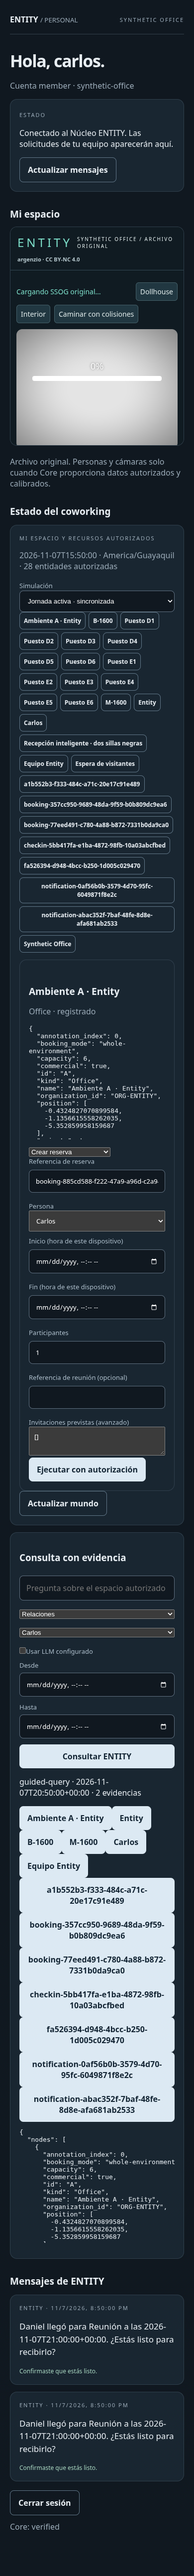
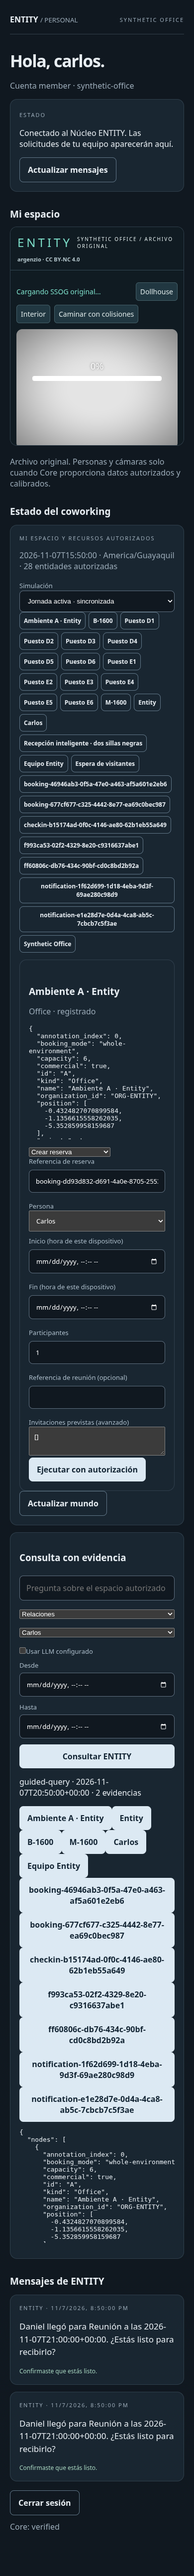
Reconstruct temporal event filters and verify shared Office delivery across scoped clients

Changed region(s): [[0.1538, 0.7158, 0.8308, 0.8403], [0.1231, 0.3112, 0.8923, 0.3735]]

diff --git a/apps/web/src/office/operations.js b/apps/web/src/office/operations.js
@@ -10,7 +10,7 @@ host.id='office-operations';
 host.innerHTML='<h2>Operaciones del coworking · ENTITY Core</h2><form id="office-login"><label>Servidor<input name="api" type="url" value="http://127.0.0.1:8010"></label><label>Usuario<input name="username" autocomplete="username"></label><label>Contraseña<input name="password" type="password" autocomplete="current-password"></label><button>Conectar</button></form><p id="office-core-status" role="status">Sin conexión al Core: no se inventarán reservas, permisos ni resultados.</p><div id="office-workspace" hidden><nav id="office-modes"></nav><label>Ejecución<select id="office-run"></select></label><button id="office-refresh">Actualizar</button><button id="office-disconnect">Cerrar sesión</button><label>Reconstrucción histórica<input id="office-time" type="datetime-local"></label><button id="office-reconstruct">Consultar ese instante</button><button id="office-present">Presente</button><p id="office-world-status"></p><div class="office-columns"><div id="office-entities"></div><div><h3 id="office-selection">Entidad</h3><div id="office-facts"></div><div id="office-actions"></div></div></div><section id="office-query"></section></div>';
 document.querySelector('main').append(host);
 host.querySelector('[name=api]').value=configuredApi();
-let selectedEventDetails=null;
+let selectedEventDetails=null,memoryKey='',memoryFilters={},memoryEpoch=0;
 let currentActor=null,sessionEpoch=0;
 let token,site,run,world,capabilities=[],selected='site',mode='Operaciones',at=null,branch='main',streamController=null,receptionPanel=null;
 const status=message=>{host.querySelector('#office-core-status').textContent=message;};
@@ -123,16 +123,25 @@ async function renderTimeline(){
  let element=host.querySelector('#office-timeline');
  if(!element){element=document.createElement('section');element.id='office-timeline';host.querySelector('#office-workspace').append(element);}
  element.hidden=mode!=='Memoria';if(element.hidden)return;
+ const key=JSON.stringify([site,run,branch]);if(memoryKey!==key){memoryKey=key;memoryFilters={};selectedEventDetails=null;}
+ const epoch=++memoryEpoch,context=JSON.stringify([site,run,branch,at]);
+ const options=kind=>'<option value="">Todos</option>'+Object.values(world.entities).filter(x=>!kind||['Zone','WaitingArea','Office','EventSpace'].includes(x.kind)).map(x=>'<option value="'+esc(x.id)+'">'+esc(x.name||x.id)+'</option>').join('');
+ if(element.dataset.context!==key){
+  element.dataset.context=key;element.innerHTML='<h3>Memoria persistente</h3><form id="office-memory-filters"><label>Entidad<select name="entity_id">'+options()+'</select></label><label>Zona<select name="zone_id">'+options(true)+'</select></label><label>Tipo de evento<input name="event_type" placeholder="observation.received"></label><label>Desde (hora de sede)<input name="start" type="datetime-local"></label><label>Hasta (hora de sede)<input name="end" type="datetime-local"></label><button>Filtrar historial</button><button type="button" id="office-memory-reset">Quitar filtros</button></form><p id="office-memory-summary"></p><label>Recorrer eventos<input id="office-scrub" type="range" min="0" value="0"></label><p>Estado y relaciones reconstruidos por Core. El fondo es el escaneo original; no existe vídeo histórico grabado.</p><div id="office-event-list"></div><details><summary>Evidencia del evento seleccionado</summary><pre id="office-event-detail"></pre></details><button id="office-memory-next">Siguientes1000 eventos</button>';
+  const form=element.querySelector('form');
+  form.onsubmit=event=>{event.preventDefault();try{memoryFilters=Object.fromEntries([...new FormData(form)].filter(([,v])=>v));for(const field of ['start','end'])if(memoryFilters[field])memoryFilters[field]=siteDateTimeToUtc(memoryFilters[field],world.timezone);renderTimeline();}catch(error){status(error.message);}};
+  element.querySelector('#office-memory-reset').onclick=()=>{form.reset();memoryFilters={};renderTimeline();};
+ }
  try{
-  const context=JSON.stringify([site,run,branch,at]);const records=await request(prefix()+'/events?limit=1000&branch='+encodeURIComponent(branch));if(mode!=='Memoria'||context!==JSON.stringify([site,run,branch,at]))return;
-  element.innerHTML='<h3>Memoria persistente · eventos inmutables</h3><label>Recorrer eventos<input id="office-scrub" type="range" min="0" max="'+Math.max(0,records.length-1)+'" value="'+Math.max(0,records.length-1)+'"></label><p>Reconstrucción del Core. No se ofrece vídeo grabado; la imagen de fondo es el escaneo original.</p><div id="office-event-list"></div><div id="office-event-detail"></div>';
-  if(selectedEventDetails)element.querySelector('#office-event-detail').textContent=JSON.stringify(selectedEventDetails,null,2);
-  const list=element.querySelector('#office-event-list');
-  for(const event of records){
-   const button=document.createElement('button');button.textContent=event.at+' · '+event.type;button.dataset.event=event.id;
-   button.onclick=async()=>{try{const detail=await request(prefix()+'/events/'+event.id);selectedEventDetails=detail;at=event.at;await refresh();}catch(e){status(e.message);}};
-   list.append(button);
-  }
-  element.querySelector('#office-scrub').onchange=async event=>{const entry=records[Number(event.target.value)];if(entry){at=entry.at;await refresh();}};
- }catch(error){status(error.message);}
+  const params=new URLSearchParams({limit:'1000',branch,...memoryFilters});const records=await request(prefix()+'/events?'+params);
+  if(epoch!==memoryEpoch||mode!=='Memoria'||context!==JSON.stringify([site,run,branch,at]))return;
+  const summary=element.querySelector('#office-memory-summary');summary.textContent=records.length+' eventos recuperados · '+world.timezone+' · filtros por relaciones históricas, sin trasladar al pasado la ubicación actual.';
+  const next=element.querySelector('#office-memory-next');next.hidden=records.length<1000;next.onclick=()=>{memoryFilters.after=String(records.at(-1).seq);renderTimeline();};
+  element.querySelector('#office-event-detail').textContent=selectedEventDetails?JSON.stringify(selectedEventDetails,null,2):'Selecciona un evento para consultar su procedencia.';
+  const select=async entry=>{try{const detail=await request(prefix()+'/events/'+entry.id);if(key!==JSON.stringify([site,run,branch]))return;selectedEventDetails=detail;at=entry.at;await refresh();}catch(e){status(e.message);}};
+  const list=element.querySelector('#office-event-list');list.replaceChildren();
+  for(const event of records){const button=document.createElement('button');button.textContent=siteWallTime(event.at,world.timezone)+' · '+event.type;button.dataset.event=event.id;button.onclick=()=>select(event);list.append(button);}
+  const scrub=element.querySelector('#office-scrub');scrub.max=String(Math.max(0,records.length-1));scrub.disabled=!records.length;scrub.value=String(Math.max(0,records.findLastIndex(event=>event.at<=world.clock)));
+  scrub.onchange=event=>{const entry=records[Number(event.target.value)];if(entry)select(entry);};
+ }catch(error){if(epoch===memoryEpoch)status(error.message);}
 }

diff --git a/apps/web/src/office/site-time.js b/apps/web/src/office/site-time.js
@@ -4,7 +4,7 @@ export function siteWallTime(iso,timezone){const p=parts(iso,timezone);return p.
 export function siteDateTimeToUtc(value,timezone){
  const match=/^(\d{4})-(\d{2})-(\d{2})T(\d{2}):(\d{2})(?::(\d{2})(?:\.(\d{1,3}))?)?$/.exec(value);if(!match)throw Error('Fecha y hora local inválidas.');
  const [year,month,day,hour,minute,second]=match.slice(1,7).map(v=>Number(v||0)),millisecond=Number((match[7]||'').padEnd(3,'0')||0);
- const target=Date.UTC(year,month-1,day,hour,minute,second,millisecond);let candidate=target;
+ const target=Date.UTC(year,month-1,day,hour,minute,second,millisecond),date=new Date(target);if(date.getUTCFullYear()!==year||date.getUTCMonth()!==month-1||date.getUTCDate()!==day||date.getUTCHours()!==hour||date.getUTCMinutes()!==minute||date.getUTCSeconds()!==second)throw Error('Fecha y hora local inválidas.');let candidate=target;
  const wall=stamp=>{const p=parts(stamp,timezone);return Date.UTC(+p.year,+p.month-1,+p.day,+p.hour,+p.minute,+p.second,new Date(stamp).getUTCMilliseconds());};
  for(let i=0;i<4;i++)candidate-=wall(candidate)-target;
  if(wall(candidate)!==target)throw Error('Esta hora local no existe en la zona horaria de la sede.');

diff --git a/apps/web/src/office/office.css b/apps/web/src/office/office.css
@@ -6,3 +6,4 @@
 
 #office-event-list{display:grid;gap:6px;max-height:240px;overflow:auto}#office-event-detail{white-space:pre-wrap;overflow-wrap:anywhere;max-height:280px;overflow:auto;color:#a4ceca}
 .capability-fields{display:grid;grid-template-columns:repeat(auto-fit,minmax(180px,1fr));gap:10px}.capability-fields label{display:grid;gap:6px}
+#office-memory-filters{display:flex;gap:10px;flex-wrap:wrap;align-items:end}#office-memory-filters label{display:grid;gap:5px;max-width:100%}#office-memory-filters input,#office-memory-filters select{max-width:100%;padding:8px;background:#152630;color:#dce7e7;border:1px solid #45616a}#office-event-list{display:grid;gap:6px;max-height:420px;overflow:auto}#office-event-list button{text-align:left;font-size:12px}#office-scrub{width:100%}

diff --git a/apps/web/tests/site-time.test.js b/apps/web/tests/site-time.test.js
@@ -5,3 +5,5 @@ test('Ecuador date does not roll forward with UTC midnight',()=>{assert.equal(si
 test('a second site uses its declared timezone',()=>{assert.equal(siteDateTimeToUtc('2026-11-07T08:00','Europe/Madrid'),'2026-11-07T07:00:00.000Z');});
 test('a nonexistent spring civil time is not silently moved',()=>{assert.throws(()=>siteDateTimeToUtc('2026-03-29T02:30','Europe/Madrid'),/no existe/);});
 test('an ambiguous fall civil time requires an unambiguous instant',()=>{assert.throws(()=>siteDateTimeToUtc('2026-10-25T02:30','Europe/Madrid'),/ambigua/);});
+
+test('an invalid calendar date is rejected rather than normalized',()=>{assert.throws(()=>siteDateTimeToUtc('2026-02-30T08:00','America/Guayaquil'),/inválidas/);});

diff --git a/services/entity-api/app/office/api.py b/services/entity-api/app/office/api.py
@@ -151,14 +151,16 @@ def bind(site:str,body:Binding,actor=Depends(principal)):
     return body
 
 @router.get('/sites/{site}/runs/{run}/events')
-def events(site:str,run:str,after:int=0,limit:int=QueryParam(default=100,ge=1,le=1000),branch:str='main',actor=Depends(principal)):
+def events(site:str,run:str,after:int=QueryParam(default=0,ge=0),limit:int=QueryParam(default=100,ge=1,le=1000),branch:str='main',entity_id:str|None=None,zone_id:str|None=None,event_type:str|None=None,start:str|None=None,end:str|None=None,actor=Depends(principal)):
     from app.main import database
+    from .memory import events as list_events
     scoped(site,actor,'read')
     with database() as db:
-        allowed=projection(world(db,site,run,branch),actor)['entities']
-        rows=[{**dict(r),'entities':json.loads(r['entities']),'payload':json.loads(r['payload']),'evidence':json.loads(r['evidence'])} for r in db.execute('SELECT * FROM office_events WHERE site=? AND run=? AND branch=? AND seq>? ORDER BY seq LIMIT ?',(site,run,branch,after,limit))]
-        if unrestricted(actor):return rows
-        return [{**{k:r[k] for k in ['seq','id','at','type']},'entities':[k for k in r['entities'] if k in allowed]} for r in rows if set(r['entities'])&set(allowed)]
+        state=world(db,site,run,branch)
+        for key in [entity_id,zone_id]:
+            if key:require_visible(state,actor,key)
+        allowed=projection(state,actor)['entities']
+        return list_events(db,site,run,branch,after,limit,None if unrestricted(actor) else allowed,entity_id,zone_id,event_type,start,end)
 
 @router.get('/sites/{site}/runs/{run}/stream')
 async def stream(site:str,run:str,request:Request,after:int=0,actor=Depends(principal)):
@@ -179,7 +181,7 @@ async def stream(site:str,run:str,request:Request,after:int=0,actor=Depends(prin
             for row in rows:
                 cursor=row['seq']
                 row=dict(row);row['entities']=[k for k in json.loads(row['entities']) if k in allowed]
-                if not unrestricted(current_actor) and not row['entities'] and row['type']!='clock.advance':continue
+                if not unrestricted(current_actor) and not row['entities'] and row['type'] not in {'clock.advance','site.active_run_changed'}:continue
                 yield f'id: {cursor}\nevent: world-change\ndata: {encode(dict(row))}\n\n'
             if not rows:yield ': heartbeat\n\n'
             await asyncio.sleep(.5)

diff --git a/services/entity-api/tests/test_office_memory.py b/services/entity-api/tests/test_office_memory.py
@@ -1,0 +1,31 @@
+"""Temporal memory filters must use past relationships, not a person's current zone."""
+import unittest
+from app import main
+import test_office as base
+
+class MemoryTests(unittest.TestCase):
+    setUp=base.OfficeTests.setUp
+    tearDown=base.OfficeTests.tearDown
+    auth=base.OfficeTests.auth
+    cmd=base.OfficeTests.cmd
+    advance=base.OfficeTests.advance
+    def test_event_zone_filter_preserves_past_location_and_pagination(self):
+        self.cmd('entity.upsert',inputs={'id':'luis','kind':'Person','attributes':{'zone_id':'zone'}})
+        self.advance('2026-11-07T16:00:00-05:00')
+        self.cmd('entity.upsert',inputs={'id':'luis','kind':'Person','attributes':{'zone_id':'other-zone'}})
+        endpoint=self.root+'/events';params={'entity_id':'luis','event_type':'entity.upsert','zone_id':'zone'}
+        old=self.client.get(endpoint,headers=self.headers,params=params);self.assertEqual(old.status_code,200,old.text)
+        self.assertEqual(len(old.json()),1)
+        self.assertEqual(old.json()[0]['payload']['changes']['luis']['zone_id'],'zone')
+        new=self.client.get(endpoint,headers=self.headers,params={**params,'zone_id':'other-zone'}).json()
+        self.assertEqual(len(new),1);self.assertGreater(new[0]['seq'],old.json()[0]['seq'])
+        later=self.client.get(endpoint,headers=self.headers,params={'after':old.json()[0]['seq'],'entity_id':'luis','event_type':'entity.upsert','limit':1}).json()
+        self.assertEqual(later,new)
+        self.assertEqual(self.client.get(endpoint,headers=self.headers,params={'start':'2026-11-07T16:00:00-05:00','end':'2026-11-07T15:00:00-05:00'}).status_code,422)
+    def test_filters_never_grant_other_site_or_private_resource_access(self):
+        endpoint=self.root+'/events'
+        self.assertEqual(self.client.get(endpoint,headers=self.auth('outsider'),params={'zone_id':'zone'}).status_code,403)
+        response=self.client.get(endpoint,headers=self.auth('luis'),params={'entity_id':'camera'})
+        self.assertEqual(response.status_code,403,response.text)
+        self.assertEqual(self.client.get(endpoint,headers=self.headers,params={'start':'not-a-time'}).status_code,422)
+        self.assertEqual(self.client.get(endpoint,headers=self.headers,params={'after':-1}).status_code,422)

diff --git a/services/entity-api/app/office/memory.py b/services/entity-api/app/office/memory.py
@@ -1,0 +1,36 @@
+"""Bounded event results with zone relationships reconstructed at the event's time."""
+import json
+from fastapi import HTTPException
+from .storage import utc,world
+
+
+def events(db,site,run,branch,after,limit,allowed=None,entity_id=None,zone_id=None,event_type=None,start=None,end=None):
+    clauses=['site=?','run=?','branch=?','seq>?'];params=[site,run,branch,after]
+    if start:clauses.append('at>=?');params.append(utc(start))
+    if end:clauses.append('at<=?');params.append(utc(end))
+    if start and end and utc(start)>utc(end):raise HTTPException(422,'Event interval is reversed')
+    if event_type:clauses.append('type=?');params.append(event_type)
+    if entity_id:
+        clauses.append('EXISTS(SELECT 1 FROM json_each(office_events.entities) WHERE value=?)');params.append(entity_id)
+    result=[];historical_at=None;items={}
+    rows=db.execute('SELECT * FROM office_events WHERE '+' AND '.join(clauses)+' ORDER BY seq',params)
+    for row in rows:
+        keys=json.loads(row['entities'])
+        if allowed is not None and not set(keys)&set(allowed):continue
+        if zone_id:
+            if not keys:continue
+            if historical_at!=row['at']:
+                historical_at=row['at'];items=world(db,site,run,branch,historical_at)['entities']
+            def belongs(key,seen=None):
+                if key==zone_id:return True
+                seen=set() if seen is None else seen
+                if key in seen:return False
+                seen.add(key);item=items.get(key,{})
+                if item.get('zone_id')==zone_id:return True
+                return any(belongs(item[field],seen) for field in ['resource_id','waiting_area','destination'] if isinstance(item.get(field),str))
+            if not any(belongs(key) for key in keys):continue
+        record={**dict(row),'entities':keys,'payload':json.loads(row['payload']),'evidence':json.loads(row['evidence'])}
+        if allowed is not None:record={**{k:record[k] for k in ['seq','id','at','type']},'entities':[k for k in keys if k in allowed]}
+        result.append(record)
+        if len(result)>=limit:break
+    return result

diff --git a/scripts/package-release.py b/scripts/package-release.py
@@ -31,7 +31,7 @@ with zipfile.ZipFile(static, 'w', compression=zipfile.ZIP_DEFLATED) as archive:
         info = zipfile.ZipInfo(file.relative_to(dist).as_posix())
         info.compress_type = zipfile.ZIP_DEFLATED
         archive.writestr(info, file.read_bytes())
-    for name, content in [('BUILD.json', json.dumps({'source_commit': sha, 'mode': 'standalone-simulated'}, indent=2)), ('.nojekyll', '')]:
+    for name, content in [('BUILD.json', json.dumps({'source_commit': sha, 'modes': {'index.html':'standalone-simulated; shared Edge fixture', 'office.html':'original remote SSOG; authenticated Core required for operations', 'personal.html':'authenticated Core required', 'kiosk.html':'authenticated Core required'}}, indent=2)), ('.nojekyll', '')]:
         info = zipfile.ZipInfo(name)
         info.compress_type = zipfile.ZIP_DEFLATED
         archive.writestr(info, content)
@@ -42,6 +42,8 @@ manifest = {'schema_version': '1.0', 'source_commit': sha,
                       for p in [source, static]},
             'limitations': ['No physical hardware or remote LLM verified',
                             'Source requires dependency download; archive is not an offline installer',
-                            'Static zip requires a web host; source Core is local development only']}
+                            'Static zip requires a web host; source Core is local development only',
+                            'Office streams the original remote SSOG/voxels; it is not an offline scene package',
+                            'Office, personal and kiosk operations require the same authenticated Core API; static hosting alone supplies no operational world']}
 (output / 'manifest.json').write_text(json.dumps(manifest, indent=2) + '\n')
 print(json.dumps(manifest, indent=2))

diff --git a/docs/PHASE-09-PROGRESS.md b/docs/PHASE-09-PROGRESS.md
@@ -1,19 +1,20 @@
 # Fase 09 — Checkpoints y evidencia
 Estado global: EN CURSO. Integradas implementaciones 943ff31 y reglas actualizadas 14c33fe.
 Rama de planificación: `codex/phase-09-autonomous-plan`.
-El acceso HTTP del ejecutor obtuvo403; el operador confirma la escena disponible. Se investiga mediante Chromium autorizado en GitHub Actions, sin inferir inexistencia del recurso.
+El original remoto ya está integrado y verificado con Chromium autorizado en GitHub Actions. El403 del proxy local no prueba indisponibilidad ni necesidad de otra exportación. Último lote local:83pruebas backend aprobadas; evidencias y límites se detallan abajo.
 
 | Subfase | Estado | Pruebas/evidencia | Commit/PR | Siguiente |
 |---|---|---|---|---|
-| 09.1 | EN CURSO | HTTP200 en Chromium remoto, escena original/collision/SSOG localizados; SSOG original remoto integrado; Vite opcional, no bloqueante | merge2d73e1d | SSOG original, anotaciones y modo walk ya verificados en baf37b3; faltan recorridos espaciales completos y zonificación operativa; Vite NO es dependencia |
-| 09.2 | EN CURSO | Cinco poses Core/GLB coincidentes sobre SSOG original; raíz de animación corregida | 95e5c2b,08f2295 | Completar rutas de jornada, pausa y replay espacial |
-| 09.3 | EN CURSO | Cuatro CCTV originales visibles; prueba de lectura falló por viewport, corrección publicada | c32c633 | Verificar capturas anónimas en dos cámaras y recuperación histórica |
-| 09.4 | VERIFICADA AUTOMÁTICAMENTE | Disponibilidad/ocupación independientes, concurrencia, no-show, conflicto/reasignación y eventos;64tests | Lote de jornada | Integración visual completa en09.9 pendiente |
-| 09.5 | VERIFICADA AUTOMÁTICAMENTE | HVACD afecta soloD, ticket/personas/reservas, reparación y sensor;64tests | Lote de jornada | Fuentes sintéticas; hardware no probado |
-| 09.6 | EN CURSO | Reinicio de proceso HTTP, backup SQLite y Docker conservan estado/eventos; scrubbing implementado | reception-http-process.json, docker-office.json | Completar reconstrucción gráfica y filtros con evidencia SSOG |
-| 09.7 | VERIFICADA AUTOMÁTICAMENTE | Core query/evidencia/TTL/permisos/acciones/trazas, SDKOpenAI con transporte controlado ytimeout;67tests | Lote de agente | Proveedor remoto real no probado sin clave |
-| 09.8 | VERIFICADA AUTOMÁTICAMENTE | Cierre/HVAC/sobreocupación aislados, comparación y aplicación revalidada;67tests | Lote de escenarios | Efectos visuales completos dependen de09.2/09.9 |
-| 09.9 | EN CURSO | UI compartida Office/personal, consultas y capacidades; E2E1280/390 PASS, CI general verde | cf79f98,c32c633 | Flujo espacial completo, Pages actual y dispositivos físicos |
+| 09.1 | EN CURSO | SSOG/voxels originales1440/390 PASS; A/B, reunión, espera/descanso y recepción con referencias; vista superior de inspección real | 0474c40 y evidencias survey | Nuevo Dollhouse publicado pendiente de captura; inventario geométrico C/D/E y asientos incompleto. Vite no requerido |
+| 09.2 | EN CURSO | 83tests; reloj Core, pausa/reinicio/replay, jornada activa de tres clientes; cinco poses Core/GLB sobre pasillo voxel verificado | 9ad7985; spatial-core.json | Rutas físicas de toda la jornada pendientes; no inventar posiciones fuera del tramo calibrado |
+| 09.3 | EN CURSO | Dos cámaras SDK observan al mismo personaje virtual; observación anónima guardada e historia recuperada; permisos/alertas backend verificados | spatial-runs/42423665942.json | Cerrar recorrido integral con Dollhouse/producto y cobertura de zonas aún no calibradas |
+| 09.4 | VERIFICADA AUTOMÁTICAMENTE | Disponibilidad/ocupación independientes, concurrencia, no-show, conflicto/reasignación y eventos; regresión83PASS | backend-regression.txt | Integración visual completa en09.9 pendiente |
+| 09.5 | VERIFICADA AUTOMÁTICAMENTE | HVAC-D afecta soloD, ticket/personas/reservas, reparación y sensor; regresión83PASS | backend-regression.txt | Sensores/actuadores sintéticos; hardware no probado |
+| 09.6 | VERIFICADA AUTOMÁTICAMENTE | Filtros por entidad/zona histórica/tipo/intervalo y scrubbing E2E; reinicio HTTP108entidades/19eventos; backup íntegro; Docker persistente | memory-regression.txt, reception-http-*.json, memory-390.png, spatial-core.json | La reconstrucción no ofrece vídeo grabado; rutas visuales completas siguen en09.2/09.9 |
+| 09.7 | VERIFICADA AUTOMÁTICAMENTE | Core query/evidencia/TTL/permisos/acciones/trazas, SDKOpenAI con transporte controlado ytimeout; regresión83PASS | backend-regression.txt | Proveedor remoto real no probado sin clave |
+| 09.8 | VERIFICADA AUTOMÁTICAMENTE | Cierre/HVAC/sobreocupación aislados, comparación y aplicación revalidada; regresión83PASS | backend-regression.txt | Efectos visuales completos dependen de09.2/09.9 |
+| 09.9 | EN CURSO | UI compartida Office/personal; E2E1280/390; José/Carlos/kiosco con replay común; runbook y arranque Docker preparados | PHASE-09-RUNBOOK.md; PR#2 | CI/Pages nuevos, paquete limpio, flujo espacial completo y límites de dispositivos físicos |
+
 
 ## Regla de registro
 En cada gate, añadir fecha, comandos exactos, resultado PASS/FAIL/NO EJECUTADO, capturas/logs sin secretos, problemas y correcciones, SHA, estado GitHub, dependencias y próxima acción. Nunca inventar pruebas. Al reiniciar Codex, leer este documento y retomar el primer gate no verificado.
@@ -109,3 +110,9 @@ Recorrido voxel adicional7647cc7 se detieneante boothverde: se conserva laeviden
 Implementado un único productor de reloj por ejecución en Core, play/pause/velocidad autorizados, pasos transaccionales de250ms y pausa al reiniciar sin sumar tiempo fuera de servicio. Un fallo de adaptador revierte reloj y acciones del paso y deja un evento de fallo, sin reintento destructivo. Replay crea otra ejecución, instala el guion y cambia la jornada activa en una sola transacción; conserva mundos e historial anteriores. Office, personal y kiosco siguen por defecto la jornada activa; elegir una ejecución explícita permite inspeccionarla. Inbox enlazado se filtra por ejecución; el mensaje demo aislado no se presenta como llegada del grafo. El kiosco solo obtiene ID/reloj, no datos privados del mundo. Hora civil usa la zona horaria de la sede, rechaza horas DST inexistentes/ambiguas.
 Pruebas reales: PYTHONPATH=services/entity-api .venv/bin/python -m unittest discover -s services/entity-api/tests -v:81PASS59.139s; test_office_playback.py:3PASS5.074s; npm --prefix apps/web test:10PASS; npm --prefix apps/web run build:PASS. CHROMIUM_PATH=/usr/bin/chromium .venv/bin/python scripts/phase09/demo-reception-http.py:PASS1280/390, cambio compartido de jornada, play/pause, privacidad/logout tardío, recepción/intercom/reserva/grafo; reinicio HTTP108entidades/19eventos y backup integrity_checkPASS. Informes reception-http-*.json y backend/playback-regression.txt. El primer intento E2E esperaba observar08:00 a60× pese al polling3s: timeout del aserto; corregido comparando el reloj Core monotónico, sin ralentizar ni fingir el avance. El primer comando unittest sinPYTHONPATH no importaba app; repetido con el comando correcto anterior.
 La evidencia SSOG original previa sí prueba22muestras físicas de pasillo libres,5poses Core/GLB,2CCTV y observación anónima/historia. No certifica rutas completas de jornada ni localización C/D/E: cuatro grupos se han localizado visualmente, correspondencia funcional de cinco ambientes sigue sin resolver. Recepción se ancló al sector de sillas negras, no a un kiosco medido. No se inventan muebles ni posiciones. Sin Android físico, micrófono real, WebPush ni LLM remoto verificados. Docker/CI/Pages del nuevo lote pendientes de ejecutar; no se reutiliza evidencia anterior como si probara código nuevo. Fase09 EN CURSO, PR#2 sin fusionar, sin aprobación humana ni avance a10/11.
+
+
+## 2026-11-08 — Codex: memoria temporal y tercer cliente sincronizado
+Backend83PASS60.502s (incluye2nuevas pruebas de filtros temporales/aislamiento). Memoria filtra entidad, zona, tipo e intervalo, aplica cursor después de filtrar y reconstruye relaciones históricas; no usa ubicación actual para reescribir el pasado. UI conserva filtros, scrubbing y evidencia; fecha en timezone de sede. SSE ahora entrega el evento no privado site.active_run_changed también a operadores acotados.
+E2E real1280/390PASS: José enOffice y Carlos enpersonal, máskiosco, siguen replayactivo; mensajes anteriores desaparecen; relojplay/pausecompartido; JoséfiltraD1/ZONE-D/run.created, seleccionaevento yreconstruyehistoria sinCarlosprivado. reception-http-browser.json/memory-390.png; reinicio conserva108entidades/19eventos ybackupPASS. BuildPASS y11NodePASS (incluye rechazo de fecha civil imposible). No se afirma pruebaespacialSSOG nueva por esta ejecución local.
+Arranque se prepara encontenedor con dependenciasfijadas, sinvenvhost, másfrontendcompilado. PrimerensayoconUIDdelhost detectó appDocker copiada conpermisos700/600 delworkspace; corregido chmoda+rX delcódigo público enimagen, sin cambiarpermisos0600decredenciales/datos. Nuevo ensayo con UID del anfitrión PASS: bootstrap en contenedor, up --wait y ready. Smoke posterior conserva98entidades/14eventos y Core8000saludable. EntregaZIP rotulaOffice/Coreobligatorio ySSOGremoto, sin vender todaslasentradascomoautónomas;CIañadeE2EOfficeextraídodelpaquetelimpio. VerPHASE-09-RUNBOOK.md. No cambianaprobaciones ni seabrenfases10/11.

diff --git a/docs/PHASE-09-RUNBOOK.md b/docs/PHASE-09-RUNBOOK.md
@@ -1,0 +1,49 @@
+# ENTITY Office — ejecución reproducible de Fase 09
+
+Estado: desarrollo en curso, no aceptación de fase ni certificación de piloto. Synthetic Office usa el archivo original remoto de argenzio, CC BY-NC4.0; no hay un edificio sustituto. No se necesita una exportación Vite ni iniciar sesión en SuperSplat.
+
+## Arranque
+
+Requisitos: Docker con Compose y Node24 o superior; acceso de red para dependencias y los recursos originales. Desde la fuente entregada:
+
+```bash
+bash scripts/start-office.sh
+```
+
+El script construye la API con dependencias fijadas, provisiona sin borrar la base existente y abre el frontend compilado en `http://127.0.0.1:4175/office.html`. No necesita Python instalado en el equipo anfitrión. API: `http://127.0.0.1:8010`; salud `/health`, disponibilidad `/ready`, contrato `/docs`. `--api-only` prepara únicamente el servicio persistente. En un entorno con CA de proxy, se admite `ENTITY_BUILD_CA_FILE=/ruta/al/bundle-publico.pem`; TLS sigue verificado y el certificado se monta solo durante la construcción.
+
+Las contraseñas generadas permanecen en `.runtime/office/access.json`, permiso0600. No publicar ese archivo. Cuentas sintéticas: `admin` administra y controla el reloj; `jose` opera sus recursos asignados; `carlos` accede a su persona/organización y reservas permitidas; `entity-kiosk` utiliza la recepción; `luis` y `mateo` tienen sus respectivos permisos. Abrir `/personal.html` para José/Carlos y `/kiosk.html` para la terminal. Introducir la misma API en las interfaces. Solo se recuerda la dirección; tokens y contraseñas no se guardan en localStorage.
+
+En Office, conectar como admin, preparar la jornada y pulsar «Reproducir reloj». Se puede pausar, avanzar a una hora civil de la sede o crear «Nueva jornada / replay». El replay conserva el historial anterior. Las interfaces siguen la jornada activa, salvo selección explícita de otra ejecución; un kiosco con `?run=...` queda fijado a esa ejecución para ensayos aislados. Reiniciar el servicio deja el reloj pausado en el último instante confirmado y no añade tiempo fuera de servicio.
+
+Si la ejecución antigua ya pasó de08:00 y no tiene guion, utilizar el replay; no alterar ni borrar su historial. Los relojes de la interfaz representan la zona horaria configurada en la sede, no la del navegador. La demo diaria termina18:30. Un fallo de adaptador pausa la reproducción y deja un evento: reparar el componente antes de reanudar. Respuesta personal autenticada prevalece sobre el personaje del guion y no constituye una prueba de presencia física.
+
+## Qué se puede comprobar
+
+- Reservas:12puestos comerciales D1–D6/E1–E6; A/B como ambientes privados completos; C interno no reservable. Reserva y ocupación son estados distintos.
+- Recepción: invitación y código autorizado → check-in → intercom de Carlos → respuesta desde app personal → actualización de visita y eventos. No existe reconocimiento facial supuesto ni teléfono obligatorio. El guion tiene llegadaDaniel15:50/reunión16:00. Para ensayar manualmente una verificación, un administrador debe emitir un código mediante el endpoint de credencial para la invitación existente; no se publica un código universal en la aplicación.
+- Operaciones: falloHVAC-D, impacto acotado, ticket, reparación y reasignación de reserva, registrados por los servicios.
+- Memoria: filtrar entidad/zona/tipo/intervalo, recorrer eventos y reconstruir el estado. La relación espacial del filtro se evalúa en el instante del evento. Se muestran hasta1000resultados por página y se permite continuar por cursor. El fondo es el escaneo original, no vídeo histórico.
+- Cámaras: vistas virtuales del mismo PlayCanvas; las personas aparecen solo si Core tiene una pose calibrada y vigente. Las observaciones del guion son fuentes sintéticas lógicas y no equivalen a detecciones desde el renderer. El botón de administrador registra una captura virtual anónima con procedencia. Pausar antes de capturar evita mezclar instantes durante la lectura del GPU.
+
+El tramo físico calibrado de Luis es09:15:00–09:15:10, sobre los voxels originales. Fuera de los intervalos con una ruta verificada no se inventa su posición. Seleccionar esas horas y reconstruir permite reproducir la evidencia acotada. No se presenta ese tramo como una jornada entera de desplazamientos.
+
+## Verificación técnica
+
+```bash
+PYTHONPATH=services/entity-api .venv/bin/python -m unittest discover -s services/entity-api/tests -v
+npm --prefix apps/web test
+npm --prefix apps/web run build
+CHROMIUM_PATH=/usr/bin/chromium .venv/bin/python scripts/phase09/demo-reception-http.py
+.venv/bin/python scripts/phase09/smoke-office-docker.py
+```
+
+Los comandos de desarrollo Python requieren el entorno creado por `scripts/setup-demo.sh` (Python3.12). El arranque Docker anterior no lo requiere. Las pruebas de escena original y física se ejecutan también en Actions mediante `phase09-original.yml` y `phase09-spatial.yml`, con navegador autorizado y evidencia vinculada a su SHA/run. Un403 del proxy local no prueba inexistencia ni necesidad de autenticación del archivo original.
+
+La entrega CI genera fuente comprometida, ZIPweb, manifiesto/checksums y prueba desde extracción limpia. Los archivos de datos/credenciales no forman parte del paquete. El ZIP contiene el visor, no una copia offline del SSOG.
+
+## Publicación y límites reales
+
+Visor estático: https://drbrownlabs-afk.github.io/Entity/office.html. Para operar desde esa URL se necesita una API accesible y configurada, con CORS explícito; Pages por sí solo no aloja Core ni proporciona credenciales. No hay un Core públicoHTTPS acreditado. Las capturas y conclusiones actuales están en `docs/evidence/phase09`, con el progreso en `docs/PHASE-09-PROGRESS.md`.
+
+Pendientes: asignación geométrica completa C/D/E y asientos, rutas de toda la jornada, revisión integral del flujo espacial, prueba de voz/micrófono y Android físico, WebPush, proveedor LLM remoto y hardware real. No se deducen posiciones a partir del inventario funcional. Los seis personajes, dispositivos y sensores demostrados son sintéticos. Las fases10/11 planificadas no están autorizadas por este arranque.

diff --git a/docs/CHATGPT-CODEX-HANDOFF.md b/docs/CHATGPT-CODEX-HANDOFF.md
@@ -83,3 +83,9 @@ Primeraprueba espacialconSSOGreal falló porAnimComponentSystem faltante enAppBa
 Implementado un único productor de reloj por ejecución en Core, play/pause/velocidad autorizados, pasos transaccionales de250ms y pausa al reiniciar sin sumar tiempo fuera de servicio. Un fallo de adaptador revierte reloj y acciones del paso y deja un evento de fallo, sin reintento destructivo. Replay crea otra ejecución, instala el guion y cambia la jornada activa en una sola transacción; conserva mundos e historial anteriores. Office, personal y kiosco siguen por defecto la jornada activa; elegir una ejecución explícita permite inspeccionarla. Inbox enlazado se filtra por ejecución; el mensaje demo aislado no se presenta como llegada del grafo. El kiosco solo obtiene ID/reloj, no datos privados del mundo. Hora civil usa la zona horaria de la sede, rechaza horas DST inexistentes/ambiguas.
 Pruebas reales: PYTHONPATH=services/entity-api .venv/bin/python -m unittest discover -s services/entity-api/tests -v:81PASS59.139s; test_office_playback.py:3PASS5.074s; npm --prefix apps/web test:10PASS; npm --prefix apps/web run build:PASS. CHROMIUM_PATH=/usr/bin/chromium .venv/bin/python scripts/phase09/demo-reception-http.py:PASS1280/390, cambio compartido de jornada, play/pause, privacidad/logout tardío, recepción/intercom/reserva/grafo; reinicio HTTP108entidades/19eventos y backup integrity_checkPASS. Informes reception-http-*.json y backend/playback-regression.txt. El primer intento E2E esperaba observar08:00 a60× pese al polling3s: timeout del aserto; corregido comparando el reloj Core monotónico, sin ralentizar ni fingir el avance. El primer comando unittest sinPYTHONPATH no importaba app; repetido con el comando correcto anterior.
 La evidencia SSOG original previa sí prueba22muestras físicas de pasillo libres,5poses Core/GLB,2CCTV y observación anónima/historia. No certifica rutas completas de jornada ni localización C/D/E: cuatro grupos se han localizado visualmente, correspondencia funcional de cinco ambientes sigue sin resolver. Recepción se ancló al sector de sillas negras, no a un kiosco medido. No se inventan muebles ni posiciones. Sin Android físico, micrófono real, WebPush ni LLM remoto verificados. Docker/CI/Pages del nuevo lote pendientes de ejecutar; no se reutiliza evidencia anterior como si probara código nuevo. Fase09 EN CURSO, PR#2 sin fusionar, sin aprobación humana ni avance a10/11.
+
+
+## 2026-11-08 — Codex: memoria temporal y tercer cliente sincronizado
+Backend83PASS60.502s (incluye2nuevas pruebas de filtros temporales/aislamiento). Memoria filtra entidad, zona, tipo e intervalo, aplica cursor después de filtrar y reconstruye relaciones históricas; no usa ubicación actual para reescribir el pasado. UI conserva filtros, scrubbing y evidencia; fecha en timezone de sede. SSE ahora entrega el evento no privado site.active_run_changed también a operadores acotados.
+E2E real1280/390PASS: José enOffice y Carlos enpersonal, máskiosco, siguen replayactivo; mensajes anteriores desaparecen; relojplay/pausecompartido; JoséfiltraD1/ZONE-D/run.created, seleccionaevento yreconstruyehistoria sinCarlosprivado. reception-http-browser.json/memory-390.png; reinicio conserva108entidades/19eventos ybackupPASS. BuildPASS y11NodePASS (incluye rechazo de fecha civil imposible). No se afirma pruebaespacialSSOG nueva por esta ejecución local.
+Arranque se prepara encontenedor con dependenciasfijadas, sinvenvhost, másfrontendcompilado. PrimerensayoconUIDdelhost detectó appDocker copiada conpermisos700/600 delworkspace; corregido chmoda+rX delcódigo público enimagen, sin cambiarpermisos0600decredenciales/datos. Nuevo ensayo con UID del anfitrión PASS: bootstrap en contenedor, up --wait y ready. Smoke posterior conserva98entidades/14eventos y Core8000saludable. EntregaZIP rotulaOffice/Coreobligatorio ySSOGremoto, sin vender todaslasentradascomoautónomas;CIañadeE2EOfficeextraídodelpaquetelimpio. VerPHASE-09-RUNBOOK.md. No cambianaprobaciones ni seabrenfases10/11.

diff --git a/docs/AGENT-WORKLOG.md b/docs/AGENT-WORKLOG.md
@@ -350,3 +350,9 @@ La evidencia SSOG original previa sí prueba22muestras físicas de pasillo libre
 ### 2026-11-08 — Codex, contenedor actualizado y encuadre nativo
 Docker reconstruido desde0d3beb4,8010readyPASS; prueba smoke-office-docker.py conserva estado y eventos exactos tras reinicio,97entidades/12eventos (última ejecución), Core8000saludable. Compose avisa de contenedor anterior huérfano: se conserva deliberadamente; no se usa remove-orphans. No falla salud ni persistencia. El build heredaCA pública mediante secretoBuildKit, TLSverificado.
 Botón Dollhouse usa ahora un bookmark de cámara superior derivado de la vista de inspección original, a través de selectAnnotation delSDK. No es un ambiente ni una coordenada de recurso; inventario conserva sus IDs y cuatro anotaciones originales. El recorte respeta plano cercano en shaderoficial, mismoSSOG/voxels/CCTV. BuildPASS, captura real1440/390 preparada enworkflow; aúnno ejecutada para este cambio.
+
+
+## 2026-11-08 — Codex: memoria temporal y tercer cliente sincronizado
+Backend83PASS60.502s (incluye2nuevas pruebas de filtros temporales/aislamiento). Memoria filtra entidad, zona, tipo e intervalo, aplica cursor después de filtrar y reconstruye relaciones históricas; no usa ubicación actual para reescribir el pasado. UI conserva filtros, scrubbing y evidencia; fecha en timezone de sede. SSE ahora entrega el evento no privado site.active_run_changed también a operadores acotados.
+E2E real1280/390PASS: José enOffice y Carlos enpersonal, máskiosco, siguen replayactivo; mensajes anteriores desaparecen; relojplay/pausecompartido; JoséfiltraD1/ZONE-D/run.created, seleccionaevento yreconstruyehistoria sinCarlosprivado. reception-http-browser.json/memory-390.png; reinicio conserva108entidades/19eventos ybackupPASS. BuildPASS y11NodePASS (incluye rechazo de fecha civil imposible). No se afirma pruebaespacialSSOG nueva por esta ejecución local.
+Arranque se prepara encontenedor con dependenciasfijadas, sinvenvhost, másfrontendcompilado. PrimerensayoconUIDdelhost detectó appDocker copiada conpermisos700/600 delworkspace; corregido chmoda+rX delcódigo público enimagen, sin cambiarpermisos0600decredenciales/datos. Nuevo ensayo con UID del anfitrión PASS: bootstrap en contenedor, up --wait y ready. Smoke posterior conserva98entidades/14eventos y Core8000saludable. EntregaZIP rotulaOffice/Coreobligatorio ySSOGremoto, sin vender todaslasentradascomoautónomas;CIañadeE2EOfficeextraídodelpaquetelimpio. VerPHASE-09-RUNBOOK.md. No cambianaprobaciones ni seabrenfases10/11.
